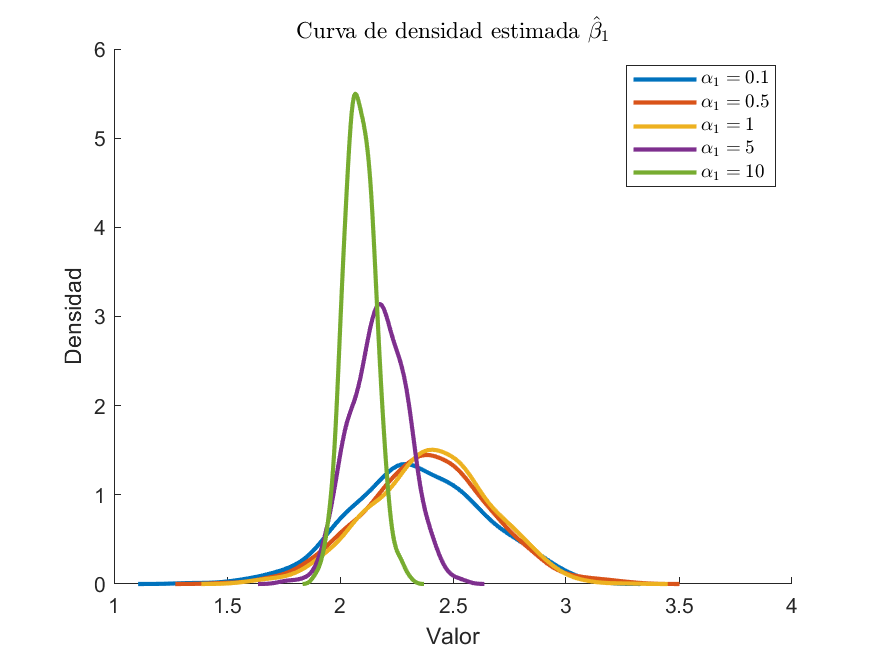
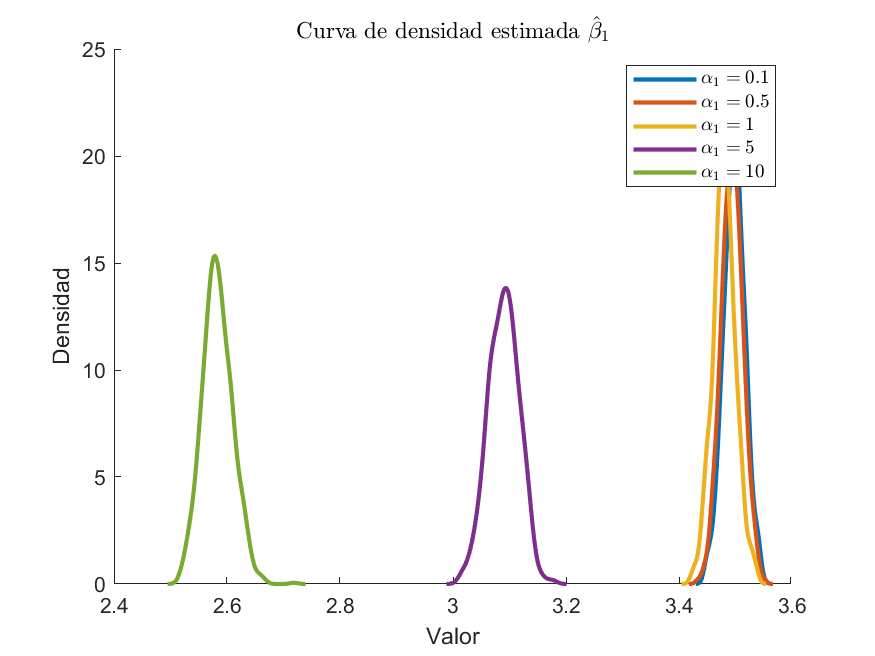
actualización

diff --git a/code/Nico/Pregunta2_Nico.m b/code/Nico/Pregunta2_Nico.m
@@ -3,7 +3,7 @@
 clear all
 clc
 
-rng(14)               % Semilla. 
+rng(1)               % Semilla. 
 
 b0 = 1;
 b1 = 2;
@@ -14,15 +14,12 @@ a2 = 3;
 
 N = 1000;
 
-e_i = 1*randn(N,1);
-u_i = 1*randn(N,1);
-
-W_i = 1*randn(N,1) + 2;
-
-v_i = unifrnd(0,1,[N,1]); 
+e_i = randn(N,1);
+u_i = randn(N,1);
+W_i = normrnd(2, 1, N, 1);
+v_i = rand(N, 1); 
 
 Z_i = zeros(N,1); 
-
 for i = 1:N
     if v_i(i) < 0.8                       
        Z_i(i) = 1;  
@@ -39,11 +36,9 @@ end
 for a1 = [0.1, 0.5, 1, 5, 10]
 
 X_i = a0 + a1*Z_i + a2*W_i + u_i;    % Primera etapa.
-Y = b0 + b1*X_i + a2*W_i + e_i;    % Segunda etapa.
+Y = b0 + b1*X_i + b2*W_i + e_i;    % Segunda etapa.
 
-x_i = a0 + a1*Z_i + u_i;    % Primera etapa omitiendo W_i.
-
-X = [ones(N,1), x_i];
+X = [ones(N,1), X_i];
 
 beta_gorro = inv(X'*X)*X'*Y;
 
@@ -77,11 +72,9 @@ bm = NaN(2,B);    % Vector de coeficientes simulados por Montecarlo.
 
 for i = 1:B
     X_i = a0 + a1*Z_i + a2*W_i + u_i;    % Primera etapa.
-    Y = b0 + b1*X_i + a2*W_i + e_i;    % Segunda etapa.
+    Y = b0 + b1*X_i + b2*W_i + e_i;    % Segunda etapa.
 
-    x_i = a0 + a1*Z_i + u_i;    % Primera etapa omitiendo W_i.
-
-    X = [ones(N,1), x_i];
+    X = [ones(N,1), X_i];   % Primera etapa omitiendo W_i.
     
     m = randi(N,N,1);      % Vector de m pares aleatorios intependientes de tamaño n. 
     bm(:,i) = (X(m,:)'*X(m,:))\(X(m,:)'*Y(m)) ;
@@ -129,38 +122,40 @@ X_i = a0 + a1*Z_i + a2*W_i + u_i;
 Z = [ones(N,1), Z_i, W_i];        
 zeta_gorro = inv(Z'*Z)*Z'*X_i;
 
+% Segunda etapa.
+
+X_hat = Z*zeta_gorro;
+Y = b0 + b1*X_hat + b2*W_i + e_i;    
+
+X = [ones(N,1), X_hat, W_i];        
+beta_gorro = inv(X'*X)*X'*Y;
+
+% Errores estándares - Segunda Etapa.
+
+K = length(beta_gorro);
+e_gorro = Y - X*beta_gorro;
+
+s = (e_gorro'*e_gorro)/(N-K);    % Varianza estimada del error.
+se = sqrt(s*diag(inv(X'*X)));    % Error estándar homocedástico.
+se_r = sqrt(diag(inv(X'*X)*(X'*((diag(e_gorro.^2))/(N-K))*X)*inv(X'*X))); % Error estándar robusto.
+
 % Test F. Utiliza errores estándares robustos. 
 
-u_gorro = Y - X*beta_gorro;
-
 K = length(zeta_gorro);
+u_gorro = X_i - Z*zeta_gorro;
 
+s1 = (u_gorro'*u_gorro)/(N-K);    % Varianza estimada del error.
+se1 = sqrt(s1*diag(inv(Z'*Z)));    % Error estándar homocedástico.
 se1_r = sqrt(diag(inv(Z'*Z)*(Z'*diag((u_gorro.^2)/(N-K))*Z)*inv(Z'*Z))); % Error estándar robusto (primera etapa)
 
 R = [0 1 0]';
 c = [0 0 0]';                      % Valor de la hipotesis a testear -> H0 : a1 = 0.
 q = 1;
 
-ftest= (R'*zeta_gorro - c)' * inv(se1_r(2,1)*R'*inv(Z'*Z)*R) * (R'*zeta_gorro - c);  % Teest F.
-p_value1 = 2 * (1 - fcdf(abs(ftest), q, N -K)); 
+ftest= (R'*zeta_gorro - c)' * inv(se1(2,1)*R'*inv(Z'*Z)*R) * (R'*zeta_gorro - c);  % Teest F.
+p_value1 = 2 * (1 - fcdf(abs(ftest), q, N - K)); 
 
-% Segunda etapa.
 
-Y = b0 + b1*X_i + b2*W_i + e_i;    
-
-X = [ones(N,1), X_i, W_i];
-
-beta_gorro = inv(X'*X)*X'*Y;
-
-u_gorro = Y - X*beta_gorro;
-
-K = length(beta_gorro);
-
-% Errores estándares.
-
-s = (u_gorro'*u_gorro)/(N-K);    % Varianza estimada del error.
-se = sqrt(s*diag(inv(X'*X)));    % Error estándar homocedástico.
-se_r = sqrt(diag(inv(X'*X)*(X'*((diag(u_gorro.^2))/(N-K))*X)*inv(X'*X))); % Error estándar robusto.
 
 Primera_Etapa = table(zeta_gorro, se1_r, ...
     'VariableNames', {'Coeficiente', 'SE Robusto'});
@@ -173,7 +168,7 @@ disp(['Para un alpha_1 = ', num2str(a1), ', la primera etapa tiene coeficientes 
 disp(Primera_Etapa);
 
 disp(['donde el Test F = ']);
-disp(ftest );
+disp(ftest);
 
 disp(['y su segunda etapa será:']);
 disp(Pregunta3);
